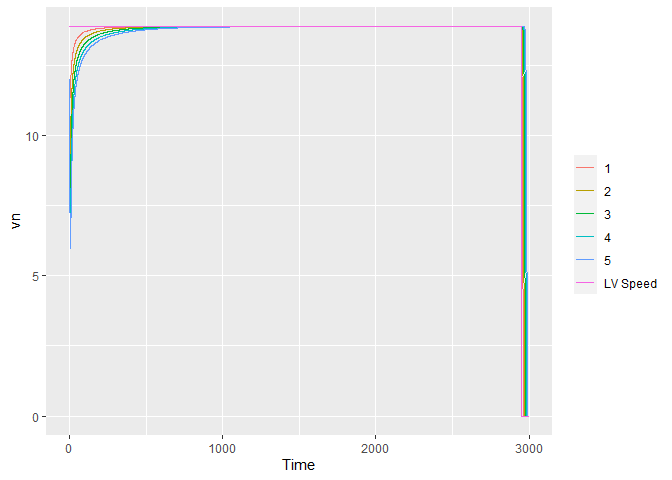
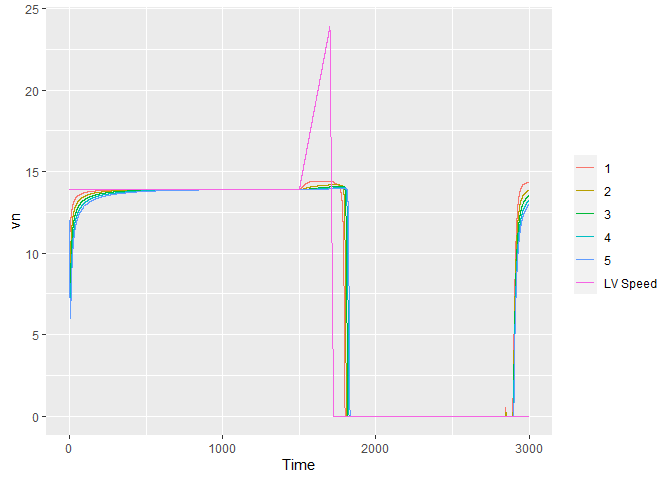
updated readme with comparison between models

diff --git a/src/RcppExports.cpp b/src/RcppExports.cpp
@@ -35,8 +35,8 @@ BEGIN_RCPP
 END_RCPP
 }
 // for_loop_gipps
-DataFrame for_loop_gipps(double resolution, int n, int time_length, double tau, double an, double bn, double Vn, double bcap, double ln1, NumericVector Time, NumericVector vn_ff, NumericVector vn_cf, NumericVector vn, NumericVector vn1, NumericVector sn, NumericVector xn, NumericVector xn1, NumericVector deltav, NumericVector bn_v);
-RcppExport SEXP _carfollowingmodels_for_loop_gipps(SEXP resolutionSEXP, SEXP nSEXP, SEXP time_lengthSEXP, SEXP tauSEXP, SEXP anSEXP, SEXP bnSEXP, SEXP VnSEXP, SEXP bcapSEXP, SEXP ln1SEXP, SEXP TimeSEXP, SEXP vn_ffSEXP, SEXP vn_cfSEXP, SEXP vnSEXP, SEXP vn1SEXP, SEXP snSEXP, SEXP xnSEXP, SEXP xn1SEXP, SEXP deltavSEXP, SEXP bn_vSEXP) {
+DataFrame for_loop_gipps(double resolution, int n, int time_length, double tau, double an, double bn_const, double Vn, double bcap, double ln1, NumericVector Time, NumericVector vn_ff, NumericVector vn_cf, NumericVector vn, NumericVector vn1, NumericVector sn, NumericVector xn, NumericVector xn1, NumericVector deltav, NumericVector bn);
+RcppExport SEXP _carfollowingmodels_for_loop_gipps(SEXP resolutionSEXP, SEXP nSEXP, SEXP time_lengthSEXP, SEXP tauSEXP, SEXP anSEXP, SEXP bn_constSEXP, SEXP VnSEXP, SEXP bcapSEXP, SEXP ln1SEXP, SEXP TimeSEXP, SEXP vn_ffSEXP, SEXP vn_cfSEXP, SEXP vnSEXP, SEXP vn1SEXP, SEXP snSEXP, SEXP xnSEXP, SEXP xn1SEXP, SEXP deltavSEXP, SEXP bnSEXP) {
 BEGIN_RCPP
     Rcpp::RObject rcpp_result_gen;
     Rcpp::RNGScope rcpp_rngScope_gen;
@@ -45,7 +45,7 @@ BEGIN_RCPP
     Rcpp::traits::input_parameter< int >::type time_length(time_lengthSEXP);
     Rcpp::traits::input_parameter< double >::type tau(tauSEXP);
     Rcpp::traits::input_parameter< double >::type an(anSEXP);
-    Rcpp::traits::input_parameter< double >::type bn(bnSEXP);
+    Rcpp::traits::input_parameter< double >::type bn_const(bn_constSEXP);
     Rcpp::traits::input_parameter< double >::type Vn(VnSEXP);
     Rcpp::traits::input_parameter< double >::type bcap(bcapSEXP);
     Rcpp::traits::input_parameter< double >::type ln1(ln1SEXP);
@@ -58,8 +58,8 @@ BEGIN_RCPP
     Rcpp::traits::input_parameter< NumericVector >::type xn(xnSEXP);
     Rcpp::traits::input_parameter< NumericVector >::type xn1(xn1SEXP);
     Rcpp::traits::input_parameter< NumericVector >::type deltav(deltavSEXP);
-    Rcpp::traits::input_parameter< NumericVector >::type bn_v(bn_vSEXP);
-    rcpp_result_gen = Rcpp::wrap(for_loop_gipps(resolution, n, time_length, tau, an, bn, Vn, bcap, ln1, Time, vn_ff, vn_cf, vn, vn1, sn, xn, xn1, deltav, bn_v));
+    Rcpp::traits::input_parameter< NumericVector >::type bn(bnSEXP);
+    rcpp_result_gen = Rcpp::wrap(for_loop_gipps(resolution, n, time_length, tau, an, bn_const, Vn, bcap, ln1, Time, vn_ff, vn_cf, vn, vn1, sn, xn, xn1, deltav, bn));
     return rcpp_result_gen;
 END_RCPP
 }

diff --git a/src/gipps_for_loop.cpp b/src/gipps_for_loop.cpp
@@ -10,7 +10,7 @@ DataFrame for_loop_gipps(double resolution,
                          int time_length,
                          double tau,
                          double an,
-                         double bn,
+                         double bn_const,
                          double Vn,
                          double bcap,
                          double ln1,
@@ -24,7 +24,7 @@ DataFrame for_loop_gipps(double resolution,
                          NumericVector xn,
                          NumericVector xn1,
                          NumericVector deltav,
-                         NumericVector bn_v
+                         NumericVector bn
 ) {
 
 
@@ -36,8 +36,8 @@ DataFrame for_loop_gipps(double resolution,
 
 
     // ## car following
-    vn_cf[t] = (bn * tau) + sqrt(
-      (pow(bn,2) * pow(tau,2)) - (bn * (2 * (xn1[t-1] - ln1 - xn[t-1]) - (vn[t-1] * tau) - (pow((vn1[t-1]),2)/bcap)))
+    vn_cf[t] = (bn_const * tau) + sqrt(
+      (pow(bn_const,2) * pow(tau,2)) - (bn_const * (2 * (xn1[t-1] - ln1 - xn[t-1]) - (vn[t-1] * tau) - (pow((vn1[t-1]),2)/bcap)))
     );
 
 
@@ -69,12 +69,12 @@ DataFrame for_loop_gipps(double resolution,
 
 
     // ## acceleration
-    bn_v[t-1] = (vn[t] - vn[t-1])/(resolution);
+    bn[t-1] = (vn[t] - vn[t-1])/(resolution);
 
 
 
     // ## position
-    xn[t] = xn[t-1] + (vn[t-1] * resolution) + (0.5 * bn_v[t-1] * pow(resolution, 2));
+    xn[t] = xn[t-1] + (vn[t-1] * resolution) + (0.5 * bn[t-1] * pow(resolution, 2));
 
 
     // # spacing
@@ -92,9 +92,7 @@ DataFrame for_loop_gipps(double resolution,
                                    Named("xn1") = xn1,
                                    Named("vn1") = vn1,
                                    Named("ln1") = ln1,
-                                   Named("bcap") = bcap,
                                    Named("bn") = bn,
-                                   Named("bn_v") = bn_v,
                                    Named("xn") = xn,
                                    Named("vn") = vn,
                                    Named("sn") = sn,

diff --git a/README.md b/README.md
@@ -40,8 +40,11 @@ time_length <- length(Time)
 ## Lead vehicle
 vn1_first <- 13.9 ## first speed m/s
 xn1_first <- 100 ## position of lead vehicle front center m
-bn1_complete <- c(rep(0, 29500),
-                 rep(-5, time_length - 29500))
+bn1_complete <- c(rep(0, 15000),
+                  rep(0.05, 2000),
+                  rep(-1, 3000),
+                  rep(0, 8000),
+                  rep(-5, 2001))
 
 
 
@@ -205,20 +208,13 @@ bcap=-2
 
 
 head(results_gipps)
-#>   fvn Time    xn1  vn1 ln1 bcap   bn      bn_v       xn       vn       sn
-#> 1   1  0.0 100.00 13.9 6.5   -2 -1.5 0.7815591 85.00000 12.00000  8.50000
-#> 2   1  0.1 101.39 13.9 6.5   -2 -1.5 0.7585004 86.20391 12.07816 15.18609
-#> 3   1  0.2 102.78 13.9 6.5   -2 -1.5 0.7359608 87.41552 12.15401 15.36448
-#> 4   1  0.3 104.17 13.9 6.5   -2 -1.5 0.7139400 88.63460 12.22760 15.53540
-#> 5   1  0.4 105.56 13.9 6.5   -2 -1.5 0.6924367 89.86093 12.29900 15.69907
-#> 6   1  0.5 106.95 13.9 6.5   -2 -1.5 0.6714485 91.09429 12.36824 15.85571
-#>      deltav
-#> 1 -1.900000
-#> 2 -1.821844
-#> 3 -1.745994
-#> 4 -1.672398
-#> 5 -1.601004
-#> 6 -1.531760
+#>   fvn Time    xn1  vn1 ln1        bn       xn       vn       sn    deltav
+#> 1   1  0.0 100.00 13.9 6.5 0.7815591 85.00000 12.00000  8.50000 -1.900000
+#> 2   1  0.1 101.39 13.9 6.5 0.7585004 86.20391 12.07816 15.18609 -1.821844
+#> 3   1  0.2 102.78 13.9 6.5 0.7359608 87.41552 12.15401 15.36448 -1.745994
+#> 4   1  0.3 104.17 13.9 6.5 0.7139400 88.63460 12.22760 15.53540 -1.672398
+#> 5   1  0.4 105.56 13.9 6.5 0.6924367 89.86093 12.29900 15.69907 -1.601004
+#> 6   1  0.5 106.95 13.9 6.5 0.6714485 91.09429 12.36824 15.85571 -1.531760
 
 
 ## Speed
@@ -227,7 +223,7 @@ ggplot(data = results_gipps) +
   geom_line(data = subset(results_gipps, fvn==1),
             aes(x = Time, y = vn1, color = "LV Speed")) +
   theme(legend.title = element_blank())
-#> Warning: Removed 2180 row(s) containing missing values (geom_path).
+#> Warning: Removed 60560 row(s) containing missing values (geom_path).
 ```
 
 <img src="man/figures/README-unnamed-chunk-2-1.png" width="100%" />
@@ -317,9 +313,25 @@ ggplot() +
             aes(x = Time, y = vn, color = "IDM Speed")) +
   geom_line(data = results_w74d_fv1 ,
             aes(x = Time, y = vn, color = "W74 Speed")) +
-  geom_line(data = results_idm_fv1 ,
-            aes(x = Time, y = vn1, color = "LV Speed"), linetype = "longdash")
-#> Warning: Removed 434 row(s) containing missing values (geom_path).
+  geom_line(data = ldf ,
+            aes(x = Time, y = vn1_complete, color = "LV Speed"), linetype = "longdash") +
+  ggtitle("Speed")
+#> Warning: Removed 12110 row(s) containing missing values (geom_path).
 ```
 
 <img src="man/figures/README-unnamed-chunk-4-1.png" width="100%" />
+
+``` r
+
+ggplot() +
+  geom_line(data = results_gipps_fv1 ,
+            aes(x = Time, y = sn, color = "Gipps Speed")) +
+  geom_line(data = results_idm_fv1 ,
+            aes(x = Time, y = sn+ln1, color = "IDM Speed")) +
+  geom_line(data = results_w74d_fv1 ,
+            aes(x = Time, y = sn, color = "W74 Speed")) +
+  ggtitle("Spacing including length of lead vehicle")
+#> Warning: Removed 12111 row(s) containing missing values (geom_path).
+```
+
+<img src="man/figures/README-unnamed-chunk-4-2.png" width="100%" />
